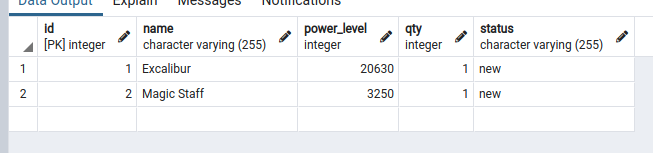
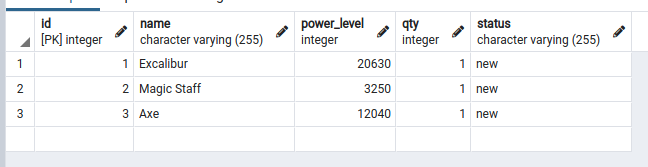
Axe's data added to seed

Changed region(s): [[0.0, 0.0, 1.0, 0.915], [0.9568, 0.2876, 1.0, 0.3137]]

diff --git a/database/seeds/003_weapons.js b/database/seeds/003_weapons.js
@@ -4,16 +4,23 @@ exports.seed = function (knex) {
     .then(function () {
       return knex("weapons").insert([
         {
-          id: 1,
+          // id: 1,
           name: "Excalibur",
           power_level: 20630,
           qty: 1,
           status: "new",
         },
         {
-          id: 2,
+          // id: 2,
           name: "Magic Staff",
           power_level: 3250,
+          qty: 1,
+          status: "new",
+        },
+        {
+          // id: 3,
+          name: "Axe",
+          power_level: 12040,
           qty: 1,
           status: "new",
         },

diff --git a/database/seeds/004_weapon_materials.js b/database/seeds/004_weapon_materials.js
@@ -9,6 +9,8 @@ exports.seed = function (knex) {
         { weapon_id: 1, material_id: 9 },
         { weapon_id: 1, material_id: 12 },
         { weapon_id: 2, material_id: 6 },
+        { weapon_id: 3, material_id: 9 },
+        { weapon_id: 3, material_id: 12 },
       ]);
     });
 };
